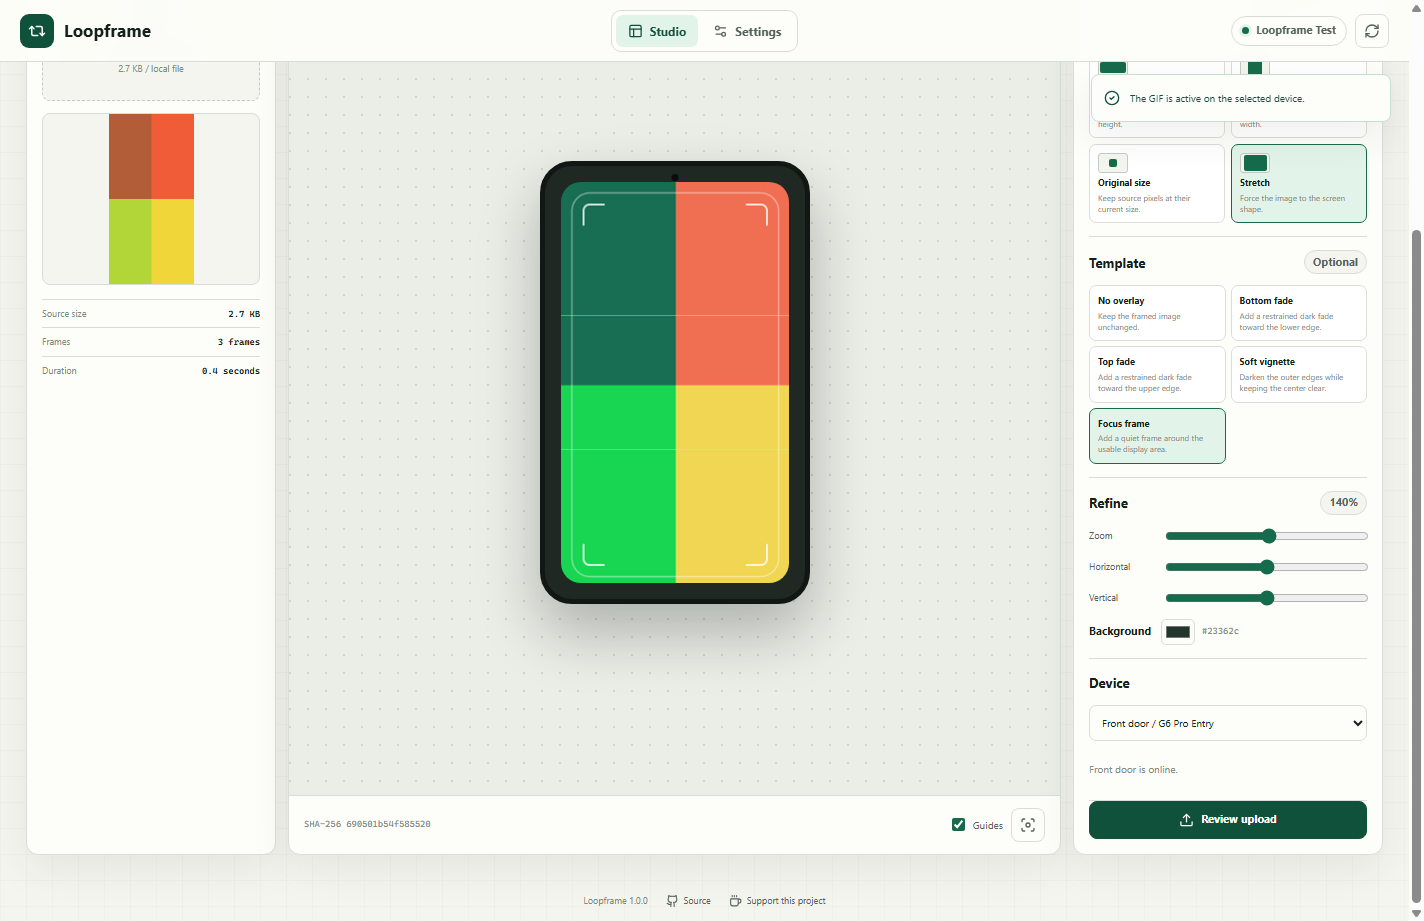
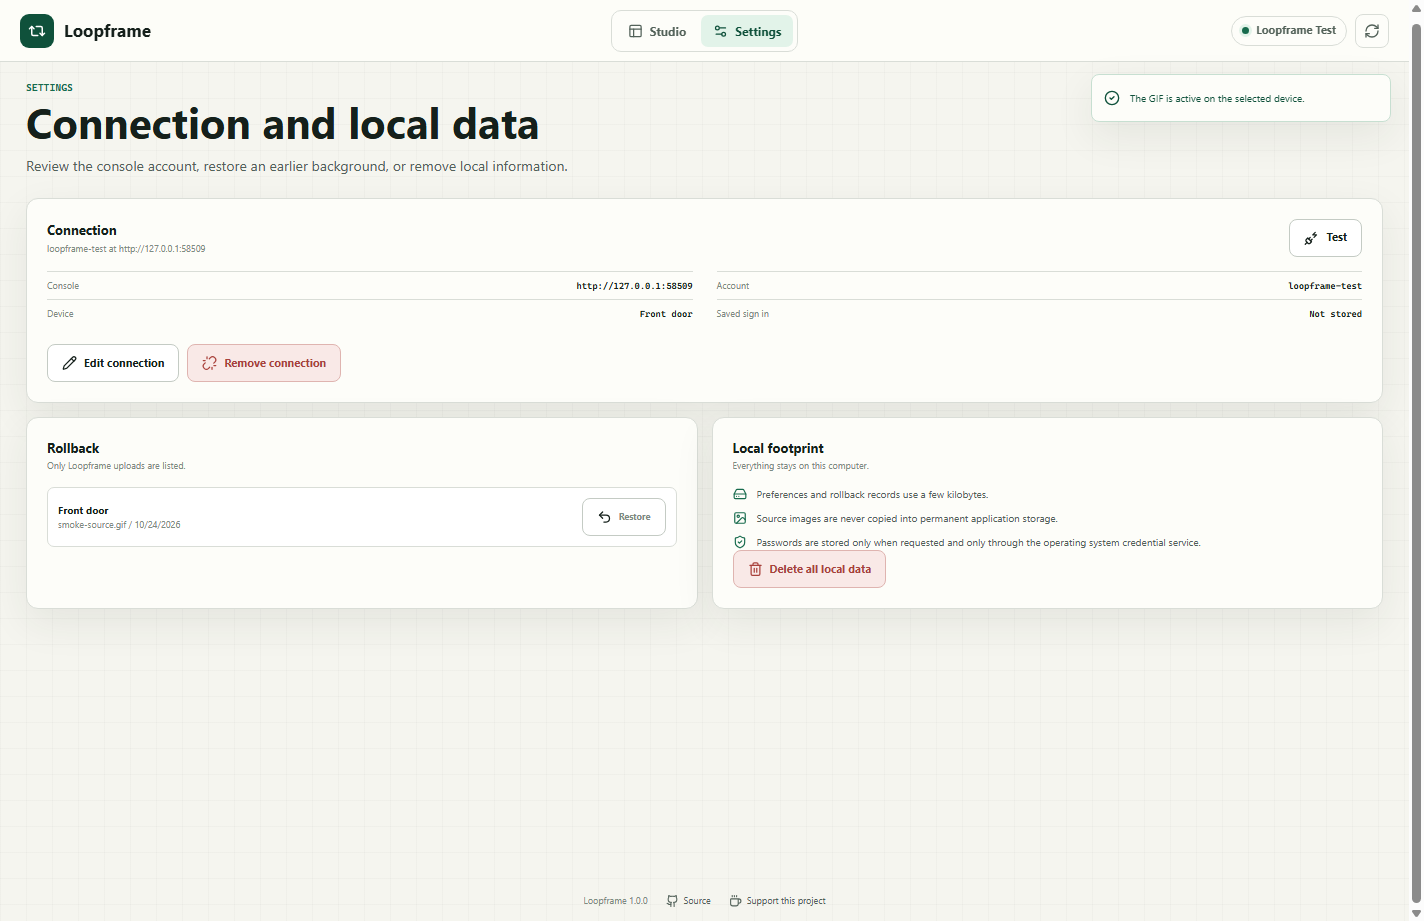
docs: add Linux and macOS release paths

diff --git a/docs/PLATFORMS.md b/docs/PLATFORMS.md
@@ -1,0 +1,81 @@
+# Platform Guide
+
+## Supported Systems
+
+| System | Processor | Package | First run |
+| --- | --- | --- | --- |
+| Windows 10 and 11 | Intel or AMD 64 bit | Portable EXE | Open the EXE |
+| Linux | Intel or AMD 64 bit | AppImage | Mark executable, then open |
+| macOS 12 or newer | Intel | ZIP | Open Loopframe.app |
+| macOS 12 or newer | Apple Silicon | ZIP | Open Loopframe.app |
+
+The application uses Electron, so the desktop runtime behaves consistently on
+all three systems. Settings use the current user's application data folder.
+Windows uses Credential Manager protection, macOS uses Keychain, and Linux uses
+the desktop keyring when Electron reports it as available.
+
+## Linux From Source
+
+Install Node.js 22 or newer with the package manager supplied by your Linux
+distribution. Then run:
+
+```bash
+npm ci
+npm start
+```
+
+No root access is required after Node.js is installed. To build an AppImage:
+
+```bash
+npm run pack:linux
+chmod +x dist/Loopframe-1.0.0-x64.AppImage
+./dist/Loopframe-1.0.0-x64.AppImage
+```
+
+If FUSE is unavailable on the target computer, run:
+
+```bash
+./dist/Loopframe-1.0.0-x64.AppImage --appimage-extract-and-run
+```
+
+## macOS From Source
+
+Install Node.js 22 or newer from the official installer or Homebrew. Then run:
+
+```bash
+npm ci
+npm start
+```
+
+To build ZIP packages:
+
+```bash
+npm run pack:mac
+```
+
+The command creates separate Intel and Apple Silicon packages. Open the
+resulting ZIP, move Loopframe.app into Applications if desired, and open it.
+
+Public macOS distribution should use an Apple Developer ID certificate and
+notarization. Without those credentials, macOS may show a Gatekeeper warning.
+This is an Apple platform requirement, not an installation requirement.
+
+## Build Matrix
+
+The repository includes a GitHub Actions workflow that builds:
+
+1. Windows x64 portable EXE.
+2. Linux x64 AppImage.
+3. macOS Intel ZIP.
+4. macOS Apple Silicon ZIP.
+
+The workflow runs the local tests before creating release packages. A live
+console test is separate because it changes real controller state.
+
+## No Admin Rule
+
+The application never needs an operating system administrator password to
+open, save settings, choose images, or publish a background. Installing Node.js
+or an operating system package may use the system's normal package manager
+policies. The packaged desktop application does not install a service or
+register a system wide component.

diff --git a/docs/DONATIONS.md b/docs/DONATIONS.md
@@ -24,6 +24,18 @@ familiar donation experience.
 Review current service fees before creating an account because providers can
 change their terms.
 
+## Comparison
+
+| Service | Strengths | Tradeoffs | Best fit |
+| --- | --- | --- | --- |
+| Buy Me a Coffee | Familiar brand, very short donor flow, one time support, optional monthly support, good share link | Platform fee plus payment processing costs, hosted branding, payout availability varies by country | Broad consumer audience and many unrelated applications |
+| Ko-fi | Free page, low platform cost for direct donations, card and payment provider choices, optional shop and memberships | Donor may leave the page for payment, some options require a paid plan, provider account setup is still required | Fee conscious creators with a community or storefront |
+| GitHub Sponsors | Trusted by developers, strong repository integration, recurring tiers, organization matching in some regions | Donors need GitHub accounts, eligibility review, tax and payout onboarding, less approachable for general consumers | Open source projects with a developer audience |
+
+Use Buy Me a Coffee for the Loopframe footer if the goal is the shortest donor
+path. Use Ko-fi if lower platform cost matters more than the most recognizable
+brand. Use GitHub Sponsors only as a second channel for developers.
+
 ## Suggested Setup
 
 1. Create a Buy Me a Coffee account with the same public brand used by these

diff --git a/README.md b/README.md
@@ -55,10 +55,12 @@ Requirements:
 
 Install and start:
 
-```powershell
+```bash
 npm install
 npm start
 ```
+
+The same commands work in PowerShell, Terminal on macOS, and a Linux shell.
 
 The application stores non secret preferences in the current user's
 application data folder. Password storage is optional. When enabled, the
@@ -117,14 +119,21 @@ The completed live record is in
 
 ## Package
 
-Build a portable Windows executable:
+Build the package for the computer doing the build:
 
-```powershell
+```bash
 npm run pack:win
+npm run pack:linux
+npm run pack:mac
 ```
 
-The output is written to `dist`. The same source can be built on macOS and
-Linux with `electron-builder`.
+Choose the command for the host system. Windows builds a portable executable,
+Linux builds an AppImage, and macOS builds ZIP files for Intel and Apple
+Silicon.
+
+The output is written to `dist`. macOS packages should be signed and notarized
+before public distribution. See [docs/PLATFORMS.md](docs/PLATFORMS.md) for the
+full release matrix and user instructions.
 
 The application does not require an installer, a system service, or operating
 system administrator rights. Each user gets a separate settings folder.
